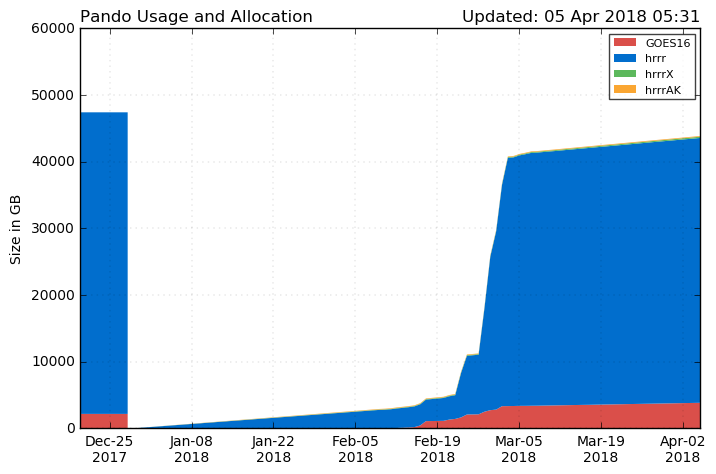
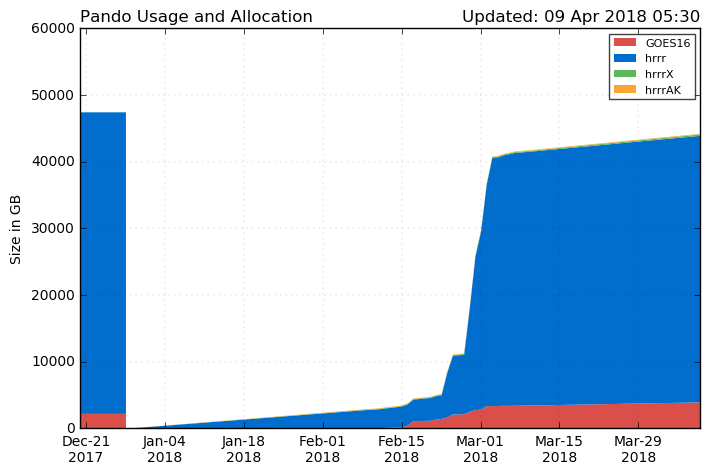
updates

Changed region(s): [[0.031, 0.0, 0.9915, 0.9747], [0.3408, 0.8565, 0.5577, 0.8861], [0.0, 0.5021, 0.031, 0.5316]]

diff --git a/Pando_archive/index.html b/Pando_archive/index.html
@@ -37,12 +37,12 @@
         </div>
   <br>
   <script src='./js/pando_status.js'></script>
-    <center><font size=12> 43.9 TB out of 60 TB</font>
+    <center><font size=12> 44.3 TB out of 60 TB</font>
     <div class="progress" style="max-width:700px;height:35px">
-            <div class="progress-bar progress-bar-danger" role="progressbar" style="width:6%">
+            <div class="progress-bar progress-bar-danger" role="progressbar" style="width:7%">
               <font size=4></font>
             </div>
-            <div class="progress-bar progress-bar-primary" role="progressbar" style="width:66%">
+            <div class="progress-bar progress-bar-primary" role="progressbar" style="width:67%">
               <font size=4></font>
             </div>
             <div class="progress-bar progress-bar-success" role="progressbar" style="width:0%">
@@ -64,9 +64,9 @@
         <th style='text-align:center'>Estimated Full Date</th>
       </tr>
       <tr>
-        <td>80.67 GB</td>
+        <td>78.97 GB</td>
         <td>199</td>
-        <td>21 October 2018</td>
+        <td>25 October 2018</td>
       </tr>
     </table>
     <table class="table table-bordered" style='text-align:center;max-width:700px'>
@@ -80,9 +80,9 @@
       <tr>
         <th>sfc</th>
         <td>--</td>
-        <td>20.02</td>
-        <td>0.95</td>
-        <td>0.00</td>
+        <td>19.73</td>
+        <td>0.12</td>
+        <td>0.14</td>
       </tr>
       <tr>
         <th>prs</th>
@@ -100,10 +100,10 @@
       </tr>
       <tr>
         <th>Total</th>
-        <th>15.7 GB</th>
-        <th>23.31 GB</th>
-        <th>0.95 GB</th>
-        <th>0.00 GB</th>
+        <th>15.3 GB</th>
+        <th>23.01 GB</th>
+        <th>0.12 GB</th>
+        <th>0.14 GB</th>
       </tr>
     </table>
 
